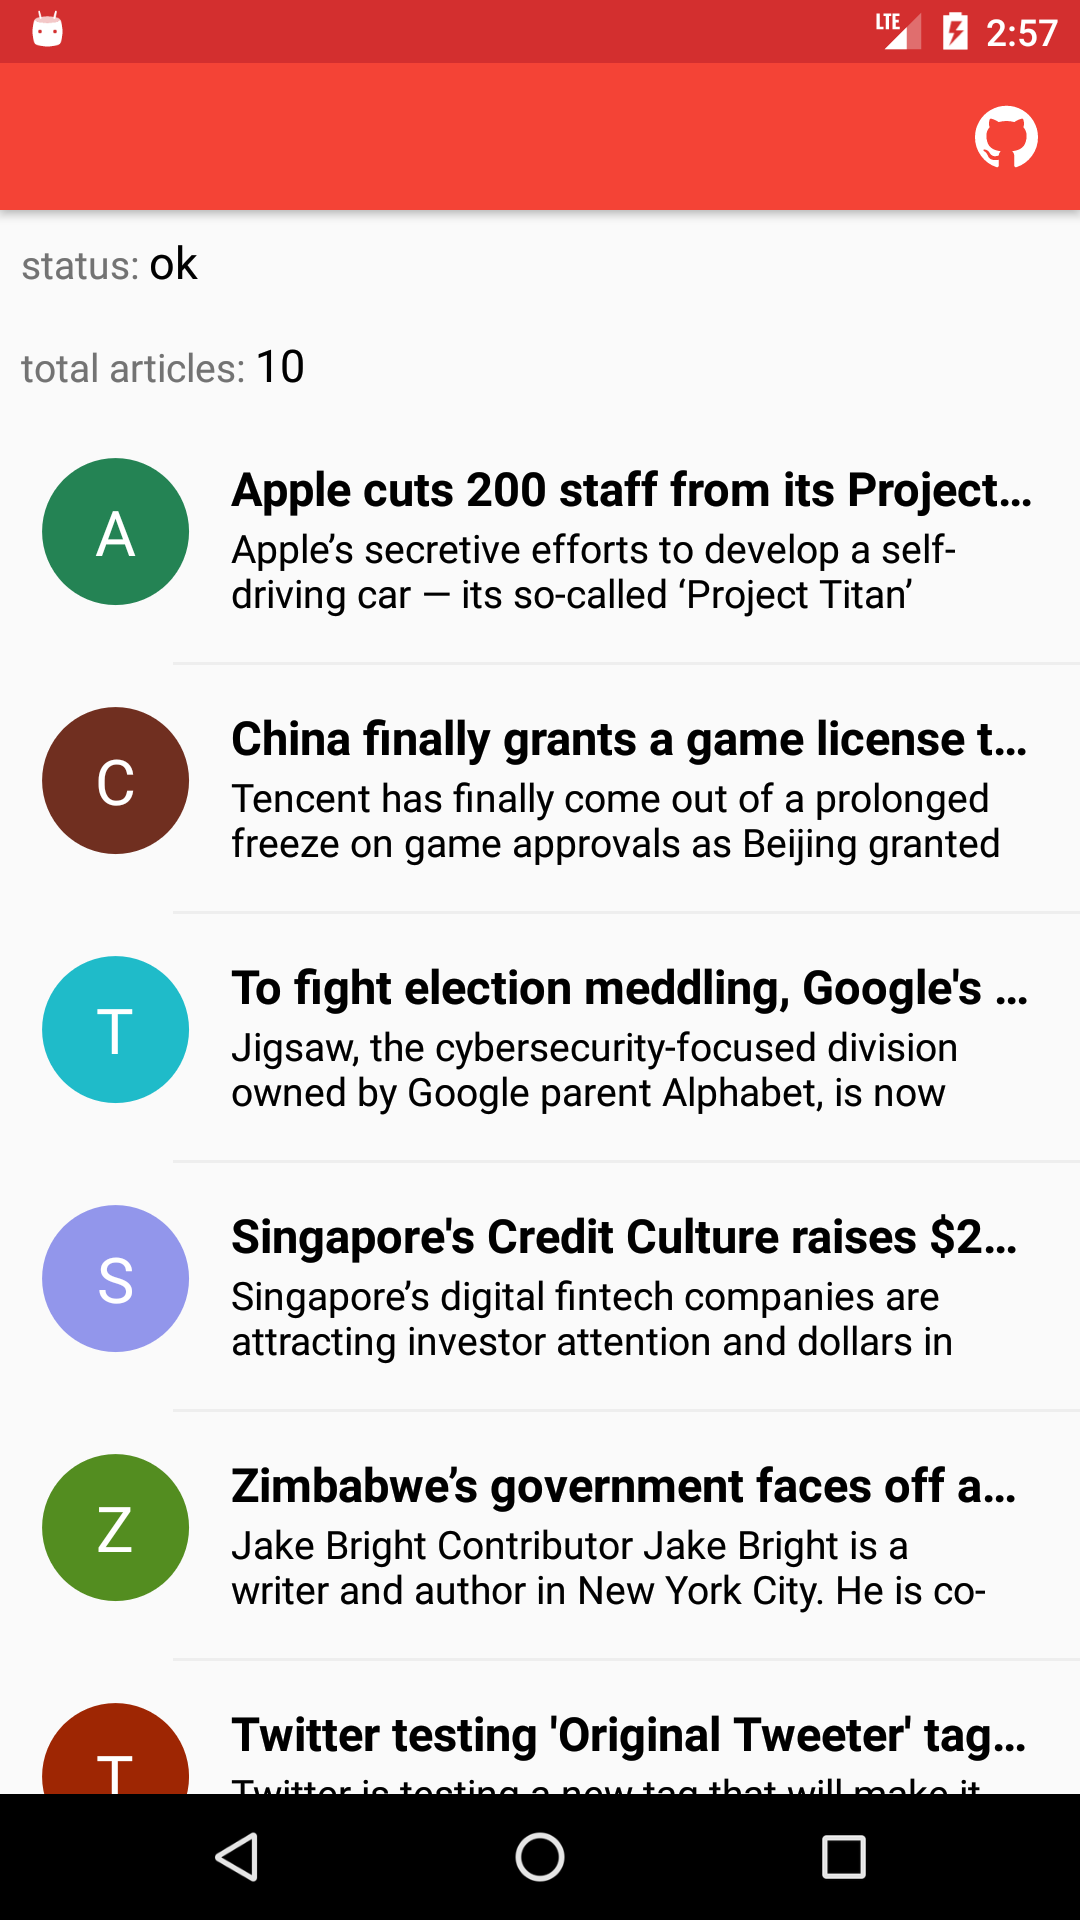
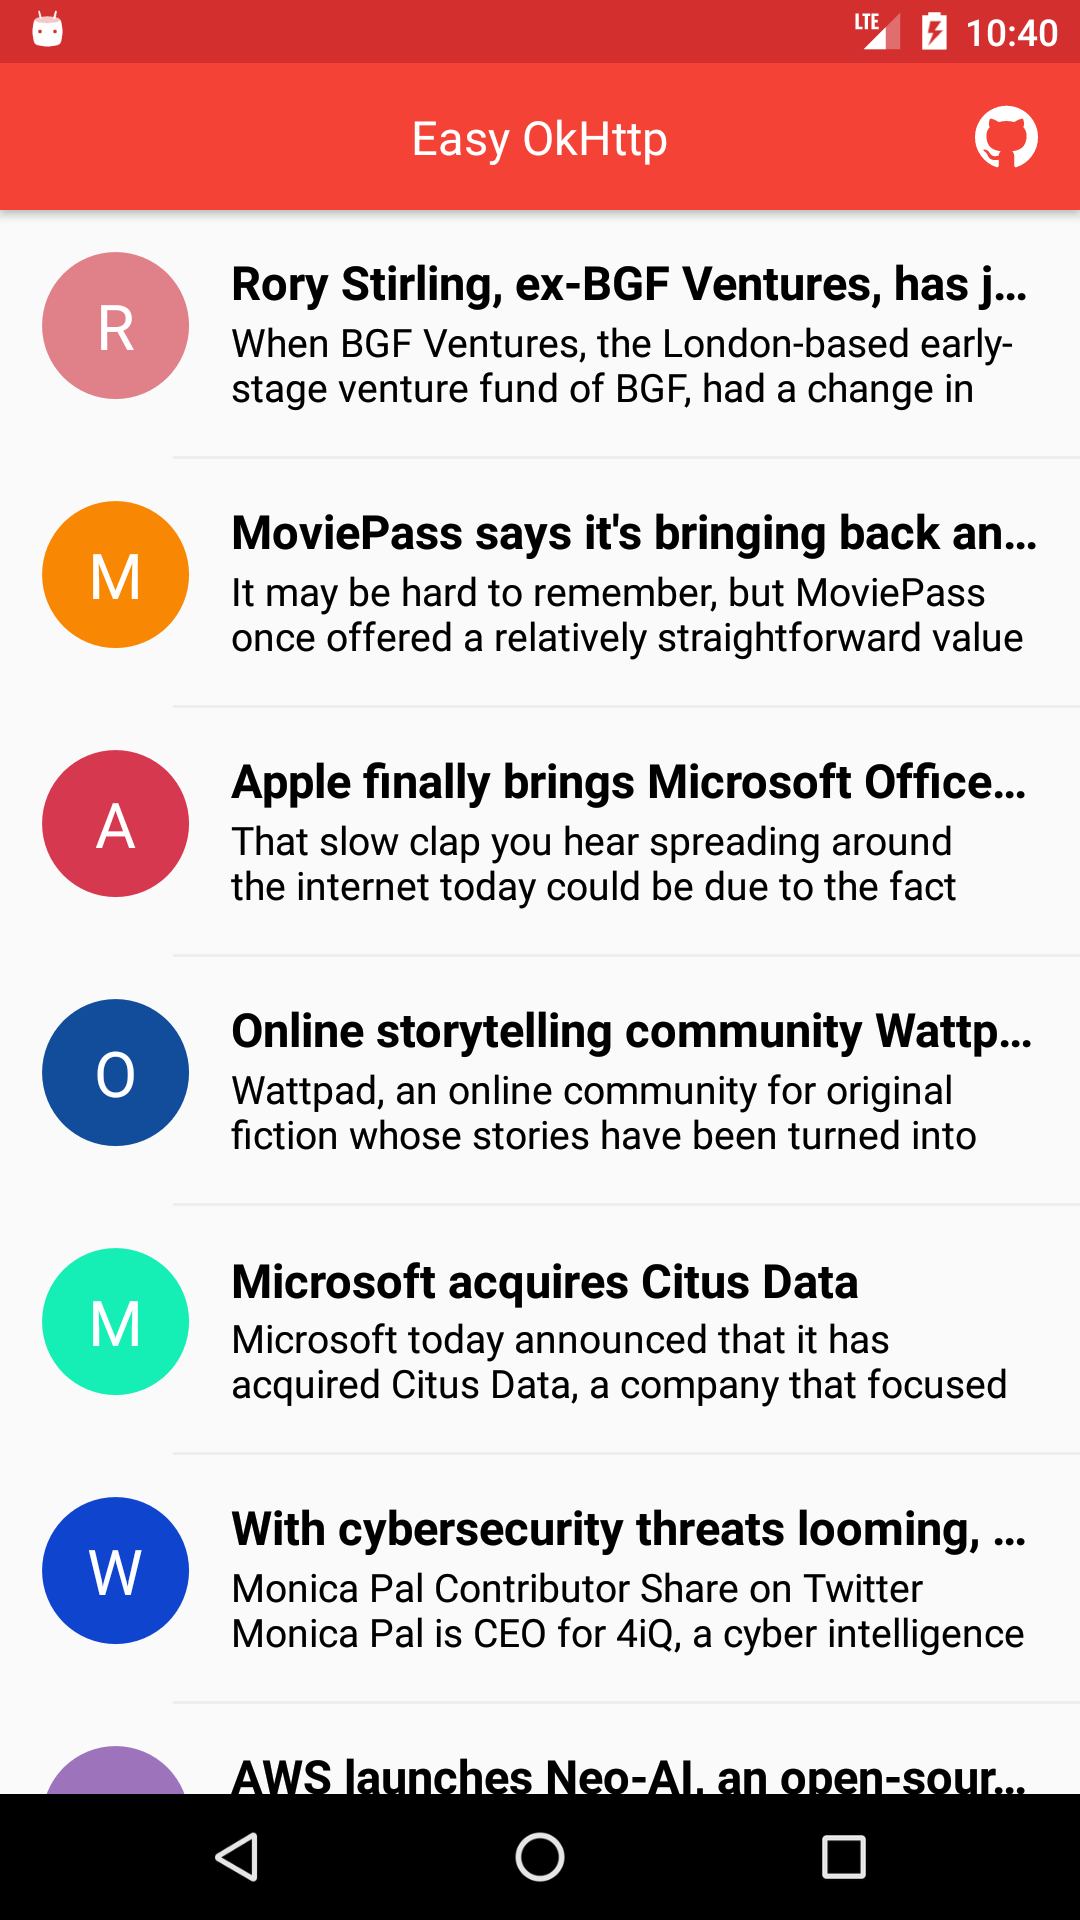
Final Commit

diff --git a/app/src/main/java/com/github/mehrdadf7/easyokhttp/MainActivity.java b/app/src/main/java/com/github/mehrdadf7/easyokhttp/MainActivity.java
@@ -3,30 +3,21 @@ package com.github.mehrdadf7.easyokhttp;
 import android.graphics.PorterDuff;
 import android.graphics.drawable.Drawable;
 import android.os.Build;
+import android.os.Bundle;
 import android.support.v4.content.ContextCompat;
 import android.support.v4.graphics.drawable.DrawableCompat;
 import android.support.v7.app.AppCompatActivity;
-import android.os.Bundle;
-import android.support.v7.widget.AppCompatTextView;
 import android.support.v7.widget.LinearLayoutManager;
 import android.support.v7.widget.RecyclerView;
-import android.util.Log;
 import android.view.View;
 import android.widget.ProgressBar;
 
 import com.github.mehrdadf7.okhttp.OnResultCallback;
-import com.github.mehrdadf7.okhttp.okhttp.OkHttpRequest;
-
-import io.reactivex.Observer;
-import io.reactivex.disposables.Disposable;
 
 public class MainActivity extends AppCompatActivity implements OnResultCallback<ArticleList> {
 
     private ProgressBar progressBar;
-    private AppCompatTextView status, totalArticles;
     private RecyclerView recyclerView;
-    private final String TAG = this.getClass().getSimpleName();
-    private ApiService apiService;
 
     @Override
     protected void onCreate(Bundle savedInstanceState) {
@@ -38,8 +29,6 @@ public class MainActivity extends AppCompatActivity implements OnResultCallback<
 
     private void findViews() {
         progressBar   = findViewById(R.id.progressBar);
-        status        = findViewById(R.id.status);
-        totalArticles = findViewById(R.id.totalArticles);
         recyclerView  = findViewById(R.id.recyclerView);
     }
 
@@ -56,7 +45,7 @@ public class MainActivity extends AppCompatActivity implements OnResultCallback<
             progressBar.getIndeterminateDrawable().setColorFilter(ContextCompat.getColor(this, android.R.color.white), PorterDuff.Mode.SRC_IN);
         }
 
-        apiService = new ApiService();
+        ApiService apiService = new ApiService();
         apiService.getArticles(this, this);
 
     }
@@ -64,8 +53,6 @@ public class MainActivity extends AppCompatActivity implements OnResultCallback<
     @Override
     public void onReceived(ArticleList articleList) {
         progressBar.setVisibility(View.GONE);
-        status       .setText(articleList.getStatus());
-        totalArticles.setText(articleList.getTotalResults()+"");
         recyclerView.setAdapter(new ArticleAdapter(articleList.getArticleList()));
     }
 

diff --git a/app/src/main/java/com/github/mehrdadf7/easyokhttp/ArticleList.java b/app/src/main/java/com/github/mehrdadf7/easyokhttp/ArticleList.java
@@ -4,17 +4,7 @@ import java.util.List;
 
 public class ArticleList {
 
-    private String status;
-    private int totalResults;
     private List<Article> articles;
-
-    public String getStatus() {
-        return status;
-    }
-
-    public int getTotalResults() {
-        return totalResults;
-    }
 
     public List<Article> getArticleList() {
         return articles;
